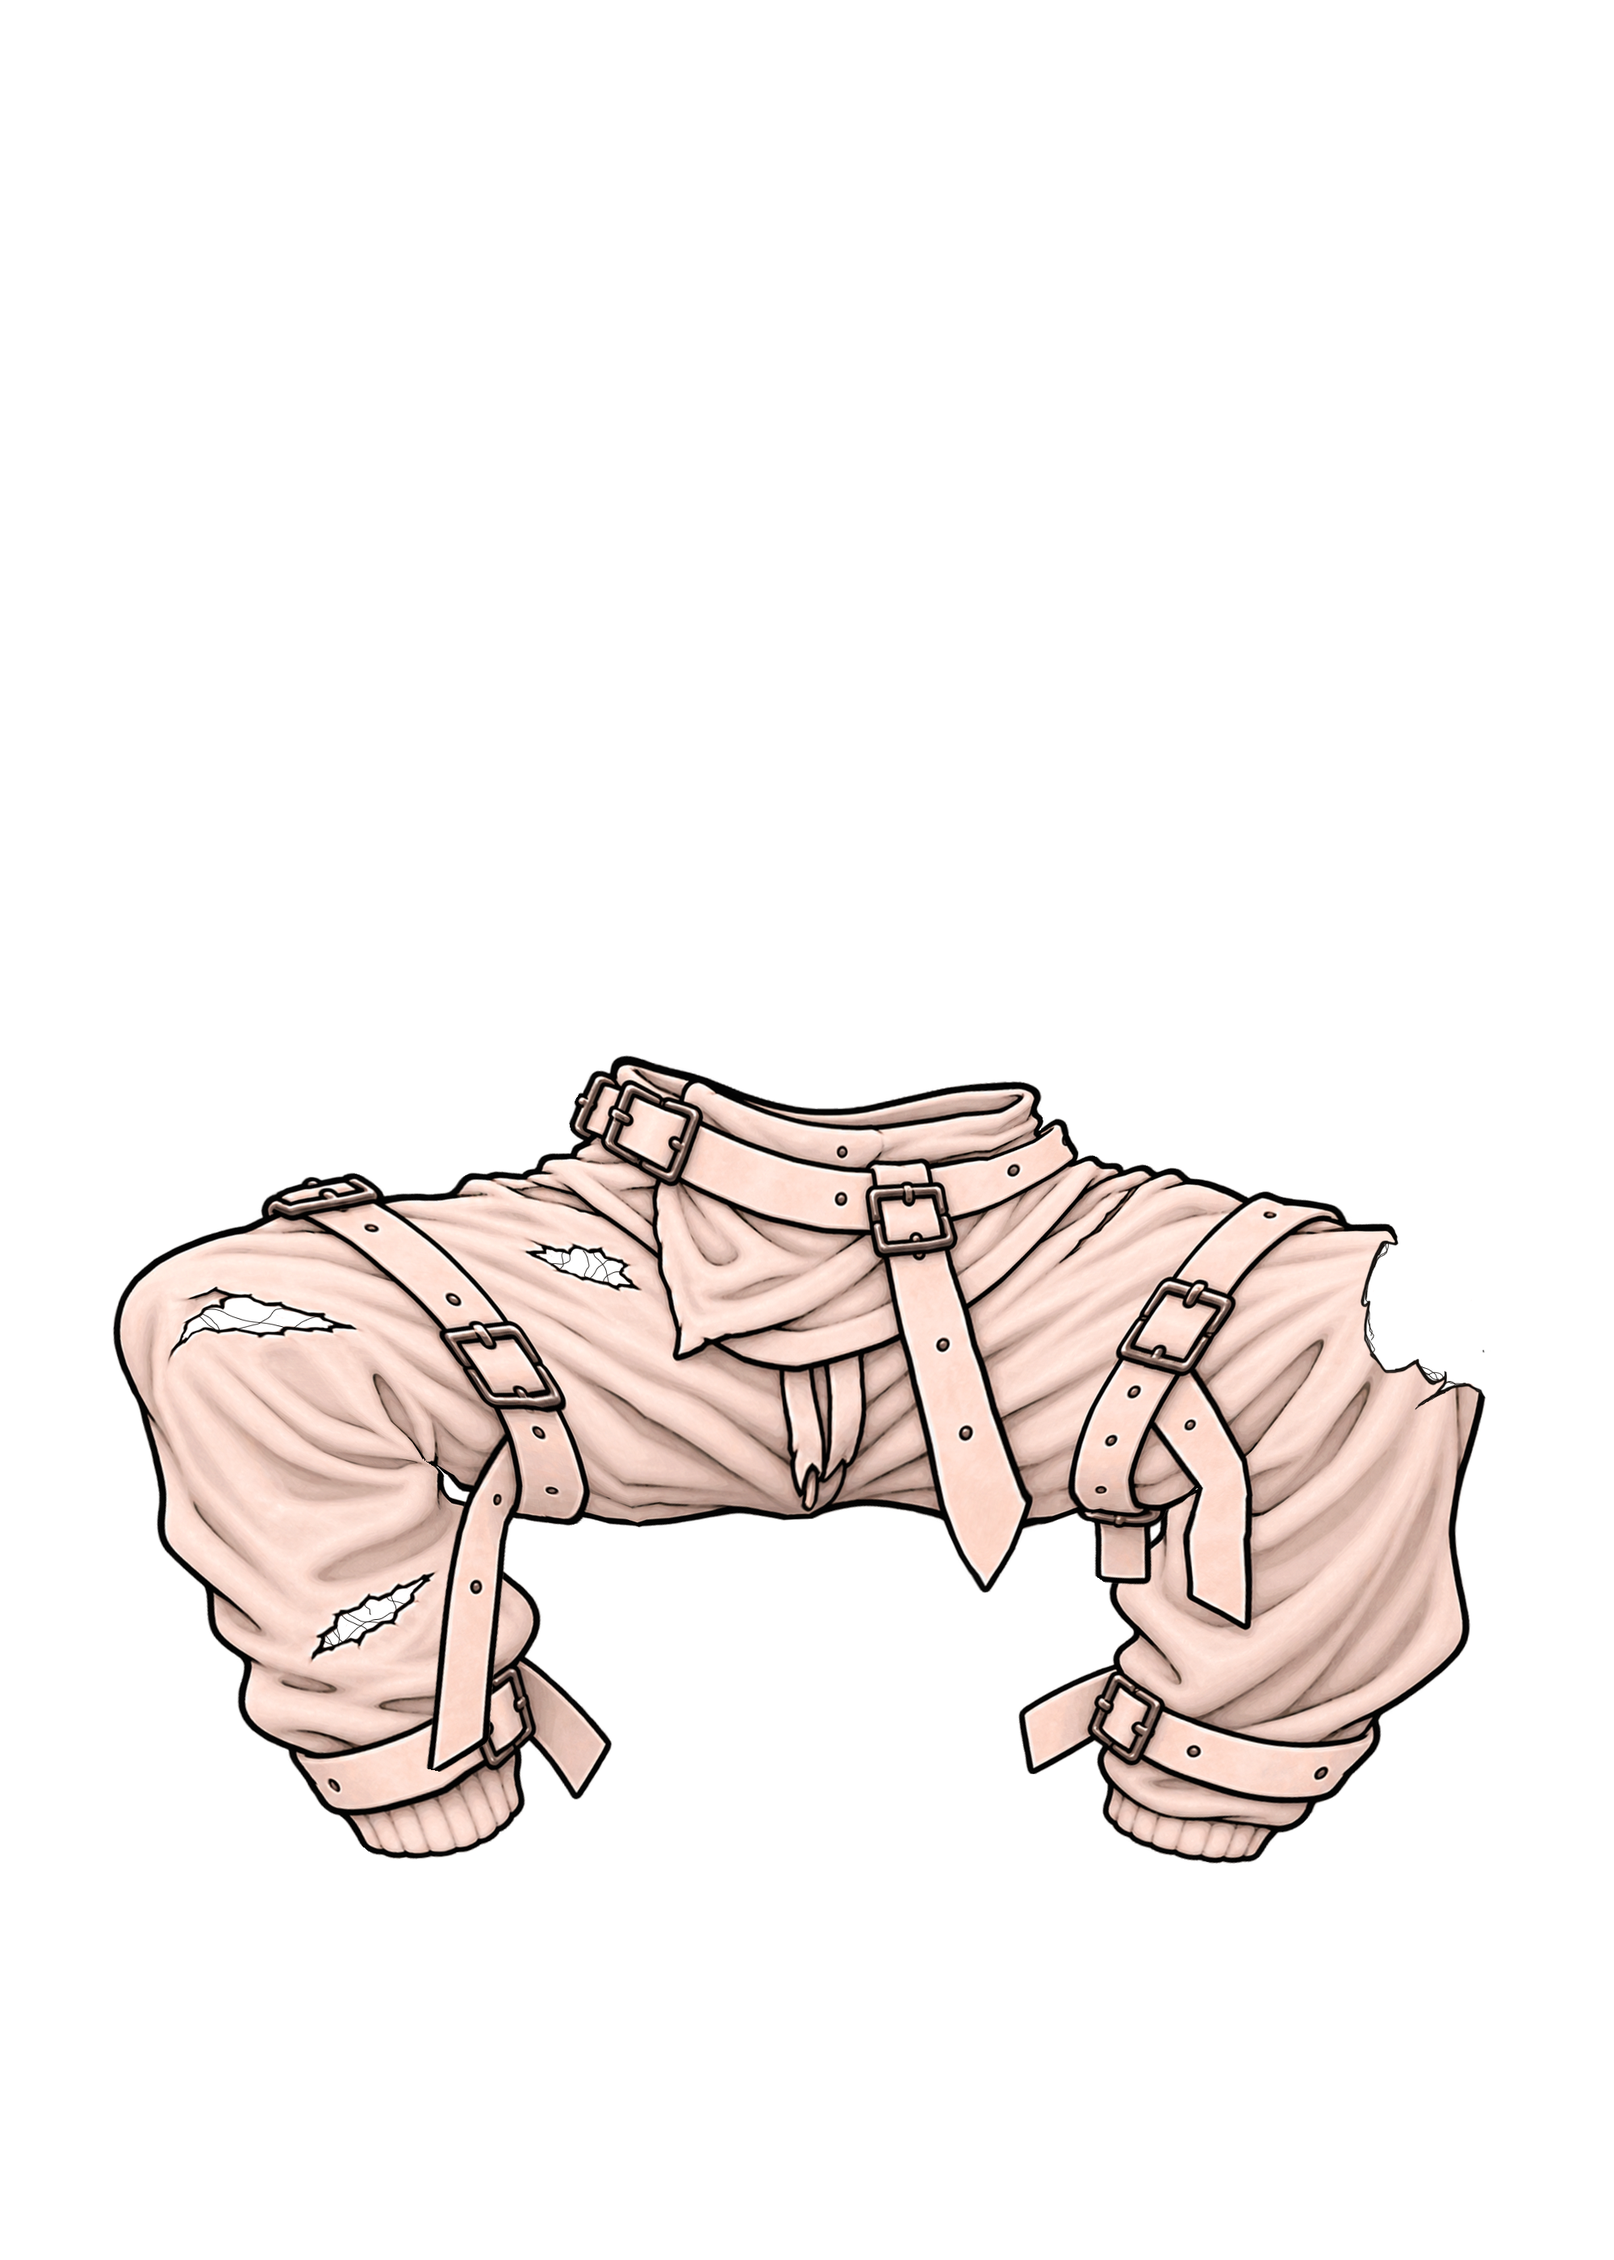
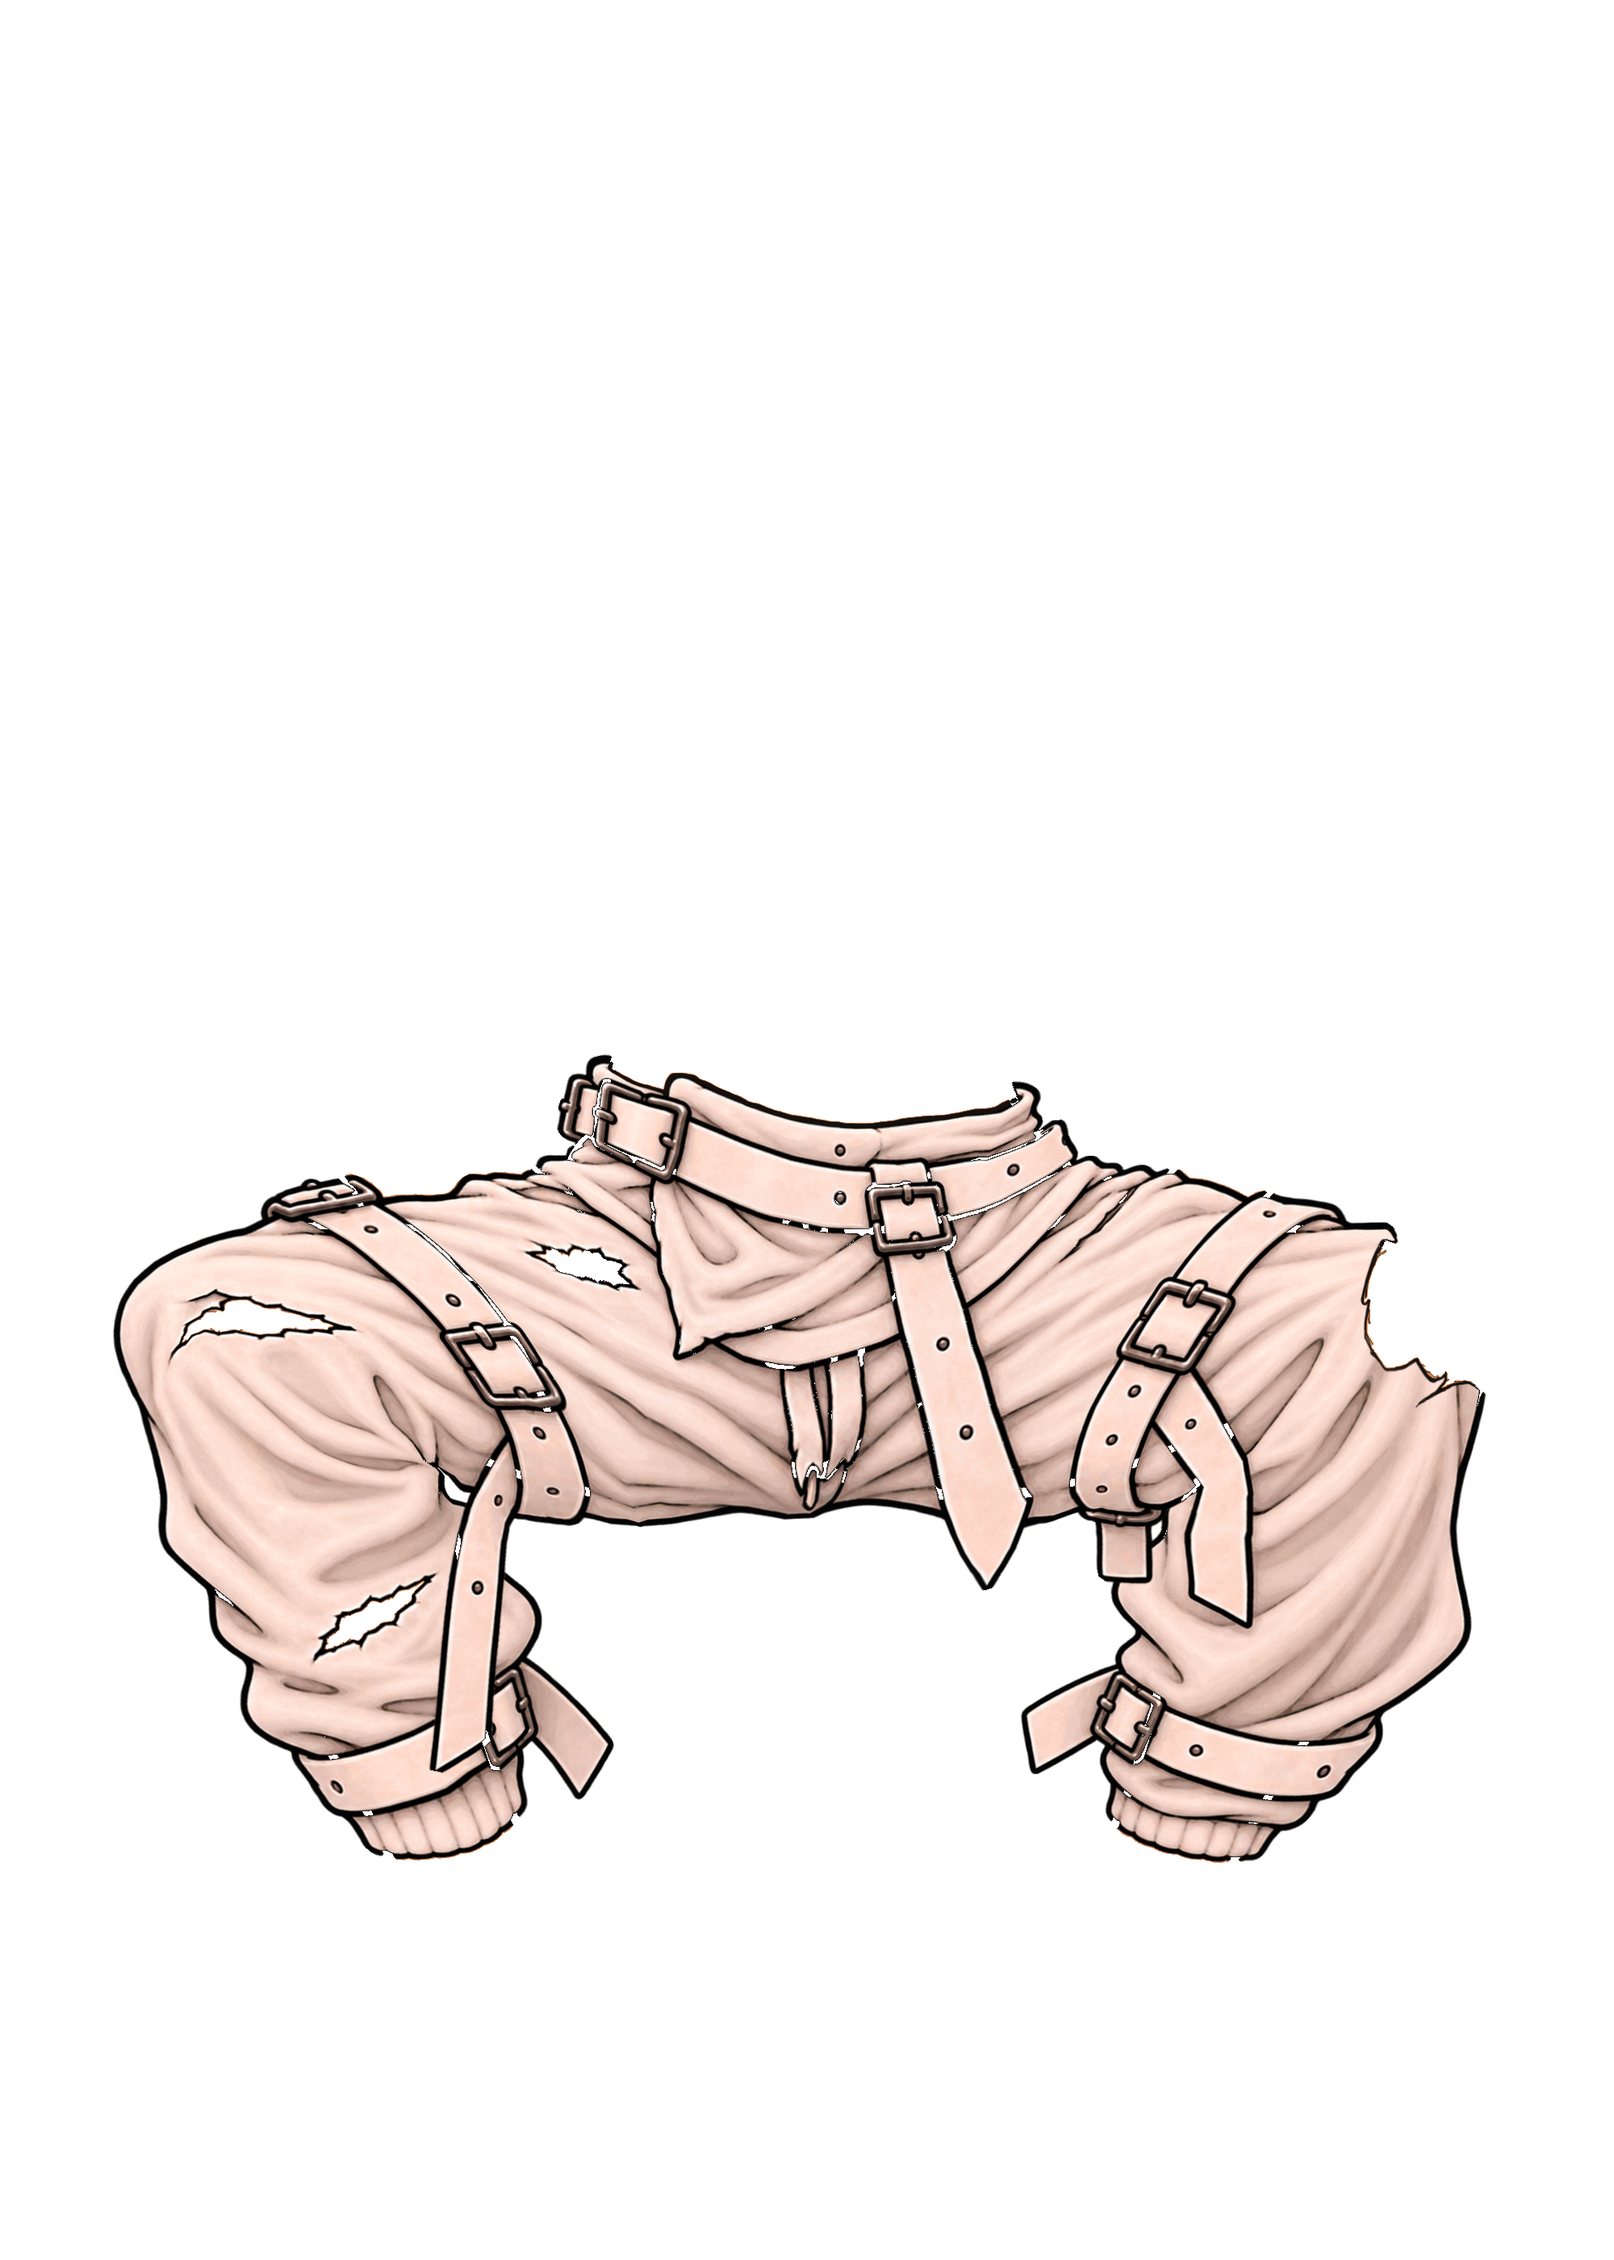
Штаны Лудомана: the artist's corrected picture; black sneakers drawn on the hero (not an item yet)
Claude-Session: https://claude.ai/code/session_01E3jaUxUo8xTQNwyakAWMq3

diff --git a/src/client/preload.ts b/src/client/preload.ts
@@ -9,7 +9,7 @@ import { ASSET_FILES } from "./asset-manifest.ts";
 import { ROOM_BACKDROP, ROOM_BG } from "../content/home-scene.ts";
 
 /** cache-busting versions of redrawn art (bump when the picture changes) */
-export const ART_VER = { heroPart: 6, hair: 7, wear: 7, items: 8, pepe: 2, tattoo: 5 } as const;
+export const ART_VER = { heroPart: 6, hair: 7, wear: 8, items: 9, pepe: 2, tattoo: 5 } as const;
 
 /** the URL a screen really requests for a file from the manifest */
 export function usedUrl(path: string): string {

diff --git a/src/client/art/rig-look.ts b/src/client/art/rig-look.ts
@@ -121,9 +121,16 @@ export const WEAR_FIT = {
   "pants-vostok": {
     "slot": "PANTS",
     "x": 68.0,
-    "y": 652.0,
-    "w": 854,
-    "h": 504
+    "y": 651.0,
+    "w": 855,
+    "h": 505
+  },
+  "sneakers-black": {
+    "slot": "SHOES",
+    "x": 72.5,
+    "y": 972.5,
+    "w": 857,
+    "h": 372
   },
   "santa-hat": {
     "slot": "HEAD",

diff --git a/src/client/asset-manifest.ts b/src/client/asset-manifest.ts
@@ -601,6 +601,7 @@ export const ASSET_FILES: string[] = [
  "/assets/hero/wear/santa-hat.webp",
  "/assets/hero/wear/shorts-remote.webp",
  "/assets/hero/wear/slippers.webp",
+ "/assets/hero/wear/sneakers-black.webp",
  "/assets/hero/wear/sneakers-komandate.webp",
  "/assets/hero/wear/sneakers.webp",
  "/assets/hero/wear/sweater-vostok.webp",

diff --git a/tools/rig/build-look.py b/tools/rig/build-look.py
@@ -69,7 +69,7 @@ def hair_recolor(im, target, ref):
 WEAR_SLOT = {"tee-white": "SHIRT", "tee-pump": "SHIRT", "jeans": "PANTS", "shorts-remote": "PANTS", "sneakers": "SHOES",
              "slippers": "SHOES", "gold-chain": "ACCESSORY", "cap-moon": "HEAD", "hoodie-hodl": "SHIRT",
              "jacket-komandate": "SHIRT", "pants-komandate": "PANTS", "sneakers-komandate": "SHOES",
-             "sweater-vostok": "SHIRT", "pants-vostok": "PANTS", "santa-hat": "HEAD", "laser-eyes": "FACE"}
+             "sweater-vostok": "SHIRT", "pants-vostok": "PANTS", "sneakers-black": "SHOES", "santa-hat": "HEAD", "laser-eyes": "FACE"}
 wear, hat_alpha = {}, {}
 for item, slot in WEAR_SLOT.items():
     a = np.array(Image.open(os.path.join(SRC, "wear", item + ".png")).convert("RGBA"))
